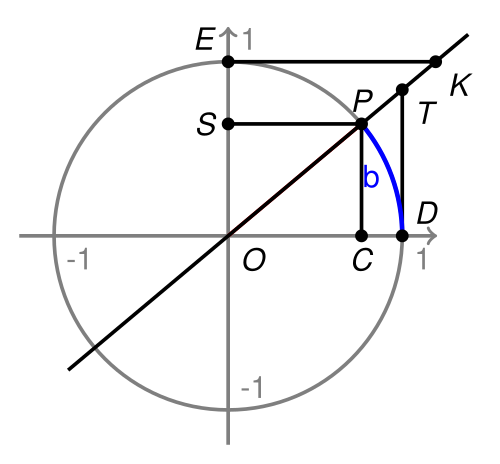
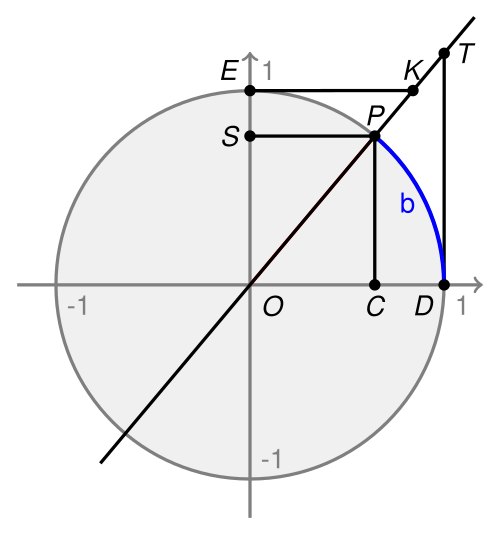
Minor

diff --git a/tikz/artificial-neuron/artificial-neuron.tex b/tikz/artificial-neuron/artificial-neuron.tex
@@ -13,17 +13,18 @@
 \begin{tikzpicture}
 	\node[draw,circle,minimum size=25pt,inner sep=0pt] (x) at (0,0) {$\Sigma$ $\varphi$};
 
-	\node[inputNode] (x0) at (-2, 1.5) {$\tiny x_0$};
-	\node[inputNode] (x1) at (-2, 0.75) {$\tiny x_1$};
-	\node[inputNode] (x2) at (-2, 0) {$\tiny x_2$};
-	\node[inputNode] (x3) at (-2, -0.75) {$\tiny x_3$};
-	\node[inputNode] (xn) at (-2, -1.75) {$\tiny x_n$};
+	\node[inputNode] (x0) at (-2, 1.5) {\color{red}$\tiny x_0$};
+	\node[inputNode] (x1) at (-2, 0.75) {\color{red}$\tiny x_1$};
+	\node[inputNode] (x2) at (-2, 0) {\color{red}$\tiny x_2$};
+	\node[inputNode] (x3) at (-2, -0.75) {\color{red}$\tiny x_3$};
+	\node[inputNode] (xn) at (-2, -1.75) {\color{red}$\tiny x_n$};
 
-	\draw[stateTransition] (x0) to[out=0,in=120] node [midway, sloped, above=-2] {$w_0$} (x);
-	\draw[stateTransition] (x1) to[out=0,in=150] node [midway, sloped, above=-2] {$w_1$} (x);
-	\draw[stateTransition] (x2) to[out=0,in=180] node [midway, sloped, above=-2] {$w_2$} (x);
-	\draw[stateTransition] (x3) to[out=0,in=210] node [midway, sloped, above=-2] {$w_3$} (x);
-	\draw[stateTransition] (xn) to[out=0,in=240] node [midway, sloped, above=-2] {$w_n$} (x);
+	\draw[stateTransition] (x0) to[out=0,in=120] node [midway, sloped, above=-2] {\color{green!40!black}$w_0$} (x);
+	\draw[stateTransition] (x1) to[out=0,in=150] node [midway, sloped, above=-2] {\color{green!40!black}$w_1$} (x);
+	\draw[stateTransition] (x2) to[out=0,in=180] node [midway, sloped, above=-2] {\color{green!40!black}$w_2$} (x);
+	\draw[stateTransition] (x3) to[out=0,in=210] node [midway, sloped, above=-2] {\color{green!40!black}$w_3$} (x);
+	\draw[stateTransition] (xn) to[out=0,in=240] node [midway, sloped, above=-2] {\color{green!40!black}$w_n$} (x);
+    \color{blue}
 	\draw[stateTransition] (x) -- (2,0) node [midway,above=-0.1cm] {};
 	\draw[dashed] (0,-0.43) -- (0,0.43);
 	\node (dots) at (-2, -1.15) {$\vdots$};

diff --git a/tikz/trigonomatric-functions/trigonomatric-functions.tex b/tikz/trigonomatric-functions/trigonomatric-functions.tex
@@ -11,8 +11,8 @@
 
 \begin{document}
 \begin{preview}
-\begin{tikzpicture}[very thick,font=\sansmath\sffamily,scale=2]
-    \newcommand\anglePoint{40}
+\begin{tikzpicture}[very thick,font=\sansmath\sffamily,scale=2.5]
+    \newcommand\anglePoint{50}
     \tkzDefPoint(0,0){O}
     \tkzDefPoint(1,0){D}
     \tkzDefPoint(0,1){E}
@@ -22,7 +22,7 @@
     \tkzDefPoint(\anglePoint:1){P}
 
     % Axes
-    \draw[gray] (O) circle (1);
+    \draw[gray, fill=gray!10] (O) circle (1);
     \node[gray,below right] at (1,0) {1};
     \node[blue,left] at (\anglePoint/2:1) {b};
     \node[gray,above right] at (0,1) {1};
@@ -33,7 +33,7 @@
 
     % \node[circle,fill=black,inner sep=0pt,minimum size=3pt,label=left:{$C_1$}] (C1) at (0,0) {};
     \tkzLabelPoints[below right,font=\sansmath\sffamily](O)
-    \tkzLabelPoints[above right,font=\sansmath\sffamily](D)
+    \tkzLabelPoints[below left,font=\sansmath\sffamily](D)
     \tkzLabelPoints[above left,font=\sansmath\sffamily](E)
     \tkzLabelPoints[above,font=\sansmath\sffamily](P)
     \tkzLabelPoints[below,font=\sansmath\sffamily](C)
@@ -46,8 +46,8 @@
     \tkzInterLL(O,P)(D,up)
     \tkzGetPoint{T}
 
-    \tkzLabelPoints[below right,font=\sansmath\sffamily](T)
-    \tkzLabelPoints[below right,font=\sansmath\sffamily](K)
+    \tkzLabelPoints[right,font=\sansmath\sffamily](T)
+    \tkzLabelPoints[above,font=\sansmath\sffamily](K)
     \draw (S) -- (P);
     \draw (C) -- (P);
     \draw (E) -- (K);
